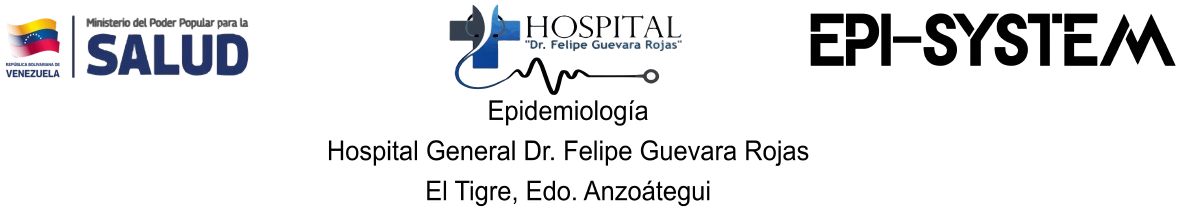
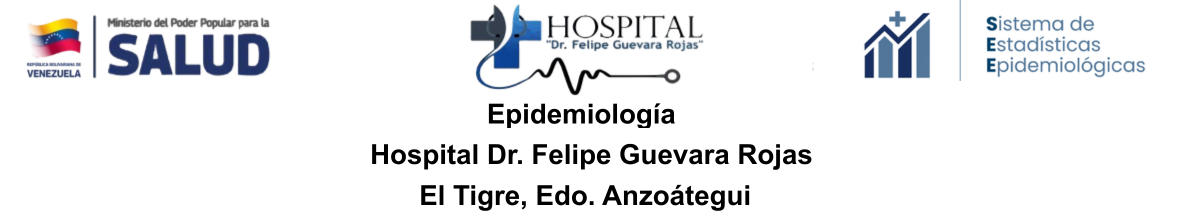
Cambios de nombre

diff --git a/src/reportes/morta_general.py b/src/reportes/morta_general.py
@@ -256,7 +256,7 @@ def exportar_pdf_mortalidad_general_df(df, year=None, specific_date=None, start_
         pdf.ln(10)
 
     pdf.set_title(f"Reporte_Mortalidad_{datetime.datetime.now().strftime('%d-%m-%Y')}")
-    pdf.set_author("EPI-SYSTEM")
+    pdf.set_author("S.E.E")
     
     buffer = BytesIO()
     # fpdf2 uses output(dest='S') or output() returns bytes depending on version

diff --git a/src/utils/pdfbanners.py b/src/utils/pdfbanners.py
@@ -51,7 +51,7 @@ class CustomPDF(FPDF):
 
         self.cell(
             0, 10,
-            f"EPI-SYSTEM {version} | Generado: {fecha_hora} | Página {self.page_no()}/{{nb}}",
+            f"S.E.E {version} | Generado: {fecha_hora} | Página {self.page_no()}/{{nb}}",
             0, 0, "C"
         )
         # Reset para que lo siguiente no sea itálica

diff --git a/src/descargas/descarga_natalidad.py b/src/descargas/descarga_natalidad.py
@@ -137,7 +137,7 @@ def _exportar_pdf_natalidad(df, nombre_archivo):
         render_block(group_clean, range_text)
 
     pdf.set_title(nombre_archivo)
-    pdf.set_author("EPI-SYSTEM")
+    pdf.set_author("S.E.E")
 
     buffer = BytesIO()
     pdf_output = pdf.output(dest='S').encode('latin1')

diff --git a/src/descargas/descarga_morbilidad.py b/src/descargas/descarga_morbilidad.py
@@ -108,7 +108,7 @@ def exportar_pdf_morbilidad_extensa(df, nombre_archivo):
 
     buffer = BytesIO()
     pdf.set_title(nombre_archivo)
-    pdf.set_author("EPI-SYSTEM")
+    pdf.set_author("S.E.E")
     buffer.write(pdf.output(dest='S').encode('latin1'))
     buffer.seek(0)
     return buffer

diff --git a/src/descargas/descarga_mortalidad.py b/src/descargas/descarga_mortalidad.py
@@ -157,7 +157,7 @@ def _exportar_pdf_mortalidad(df, nombre_archivo):
             fill = not fill
 
     pdf.set_title(nombre_archivo)
-    pdf.set_author("EPI-SYSTEM")
+    pdf.set_author("S.E.E")
 
     buffer = BytesIO()
     # fpdf2 compatible output

diff --git a/README-es.md b/README-es.md
@@ -2,7 +2,7 @@
 ![Logo](https://i.imgur.com/SAHxoGy.png)
 
 
-# Sistema de Estadísticas Epidemiológicas (SEE) (antes EPI-SYSTEM)
+# Sistema de Estadísticas Epidemiológicas (SEE) (antes S.E.E)
 
 El sistema desarrollado es un entorno web de vigilancia epidemiológica orientada al Hospital Dr. Felipe Guevara Rojas. Su propósito es digitalizar y optimizar el registro, análisis y consulta de datos epidemiológicos, sustituyendo los procesos manuales en papel por una herramienta tecnológica eficiente, segura y accesible.
 
@@ -26,7 +26,7 @@ cd myproject
 ```
 ### - Paso 2. En tu terminal, escribe para clonar el repositorio:
 ```bash
-git clone https://github.com/Sua7Dev/EPI-SYSTEM.git
+git clone https://github.com/Sua7Dev/S.E.E.git
 ```
 
 ### - Paso 3. crea un entorno virtual:
@@ -51,7 +51,7 @@ cd src
 
 ### - Paso 7. compilamos a .exe:
 ```bash
-pyinstaller --clean --icon=../iconito.ico --onedir launcher.py --name EPI-SYSTEM --collect-all streamlit --collect-all streamlit_extras --add-data "../static;static" --add-data "../.streamlit;.streamlit" --add-data "hospital.db;." --add-data "main.py;." --add-data "launcher.py;." --add-data "utils;utils" --add-data "db.py;." --add-data "pages;pages" --add-data "reportes;reportes" --add-data "descargas;descargas" --add-data "stats;stats" --hidden-import=streamlit.web.cli --hidden-import=importlib.metadata --hidden-import=fpdf --hidden-import=db --hidden-import=utils.sql_control --hidden-import=pandas --hidden-import=numpy --hidden-import=pyarrow --hidden-import=snowflake.connector --hidden-import=streamlit_extras --noupx --noconsole
+pyinstaller --clean --icon=../iconito.ico --onedir launcher.py --name S.E.E --collect-all streamlit --collect-all streamlit_extras --add-data "../static;static" --add-data "../.streamlit;.streamlit" --add-data "hospital.db;." --add-data "main.py;." --add-data "launcher.py;." --add-data "utils;utils" --add-data "db.py;." --add-data "pages;pages" --add-data "reportes;reportes" --add-data "descargas;descargas" --add-data "stats;stats" --hidden-import=streamlit.web.cli --hidden-import=importlib.metadata --hidden-import=fpdf --hidden-import=db --hidden-import=utils.sql_control --hidden-import=pandas --hidden-import=numpy --hidden-import=pyarrow --hidden-import=snowflake.connector --hidden-import=streamlit_extras --noupx --noconsole
 ```
 
 

diff --git a/README.md b/README.md
@@ -2,7 +2,7 @@
 ![Logo](https://i.imgur.com/SAHxoGy.png)
 
 
-# Sistema de Estadísticas Epidemiológicas (SEE) (before EPI-SYSTEM)
+# Sistema de Estadísticas Epidemiológicas (SEE) (before S.E.E)
 
 The developed system is a web-based epidemiological surveillance environment for the Dr. Felipe Guevara Rojas Hospital. Its purpose is to digitize and optimize the recording, analysis, and query of epidemiological data, replacing manual paper-based processes with an efficient, secure, and accessible technological tool.
 
@@ -26,7 +26,7 @@ cd myproject
 ```
 ### - step 2. In your terminal, type to clone the repository:
 ```bash
-git clone https://github.com/Sua7Dev/EPI-SYSTEM.git
+git clone https://github.com/Sua7Dev/S.E.E.git
 ```
 
 ### - step 3. creates a virtual environment:
@@ -51,7 +51,7 @@ cd src
 
 ### - step 7. we compile to .exe:
 ```bash
-pyinstaller --clean --icon=../iconito.ico --onedir launcher.py --name EPI-SYSTEM --collect-all streamlit --collect-all streamlit_extras --add-data "../static;static" --add-data "../.streamlit;.streamlit" --add-data "hospital.db;." --add-data "main.py;." --add-data "launcher.py;." --add-data "utils;utils" --add-data "db.py;." --add-data "pages;pages" --add-data "reportes;reportes" --add-data "descargas;descargas" --add-data "stats;stats" --hidden-import=streamlit.web.cli --hidden-import=importlib.metadata --hidden-import=fpdf --hidden-import=db --hidden-import=utils.sql_control --hidden-import=pandas --hidden-import=numpy --hidden-import=pyarrow --hidden-import=snowflake.connector --hidden-import=streamlit_extras --noupx --noconsole
+pyinstaller --clean --icon=../iconito.ico --onedir launcher.py --name S.E.E --collect-all streamlit --collect-all streamlit_extras --add-data "../static;static" --add-data "../.streamlit;.streamlit" --add-data "hospital.db;." --add-data "main.py;." --add-data "launcher.py;." --add-data "utils;utils" --add-data "db.py;." --add-data "pages;pages" --add-data "reportes;reportes" --add-data "descargas;descargas" --add-data "stats;stats" --hidden-import=streamlit.web.cli --hidden-import=importlib.metadata --hidden-import=fpdf --hidden-import=db --hidden-import=utils.sql_control --hidden-import=pandas --hidden-import=numpy --hidden-import=pyarrow --hidden-import=snowflake.connector --hidden-import=streamlit_extras --noupx --noconsole
 ```
 
 
